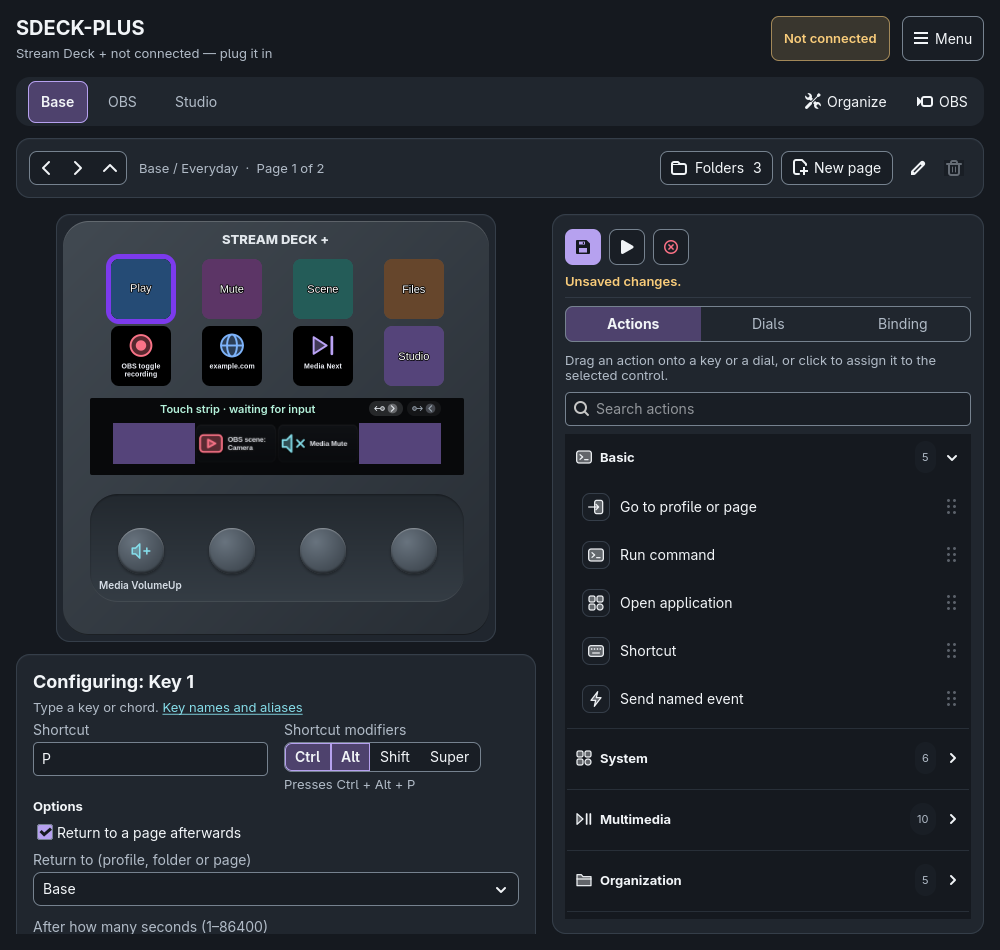
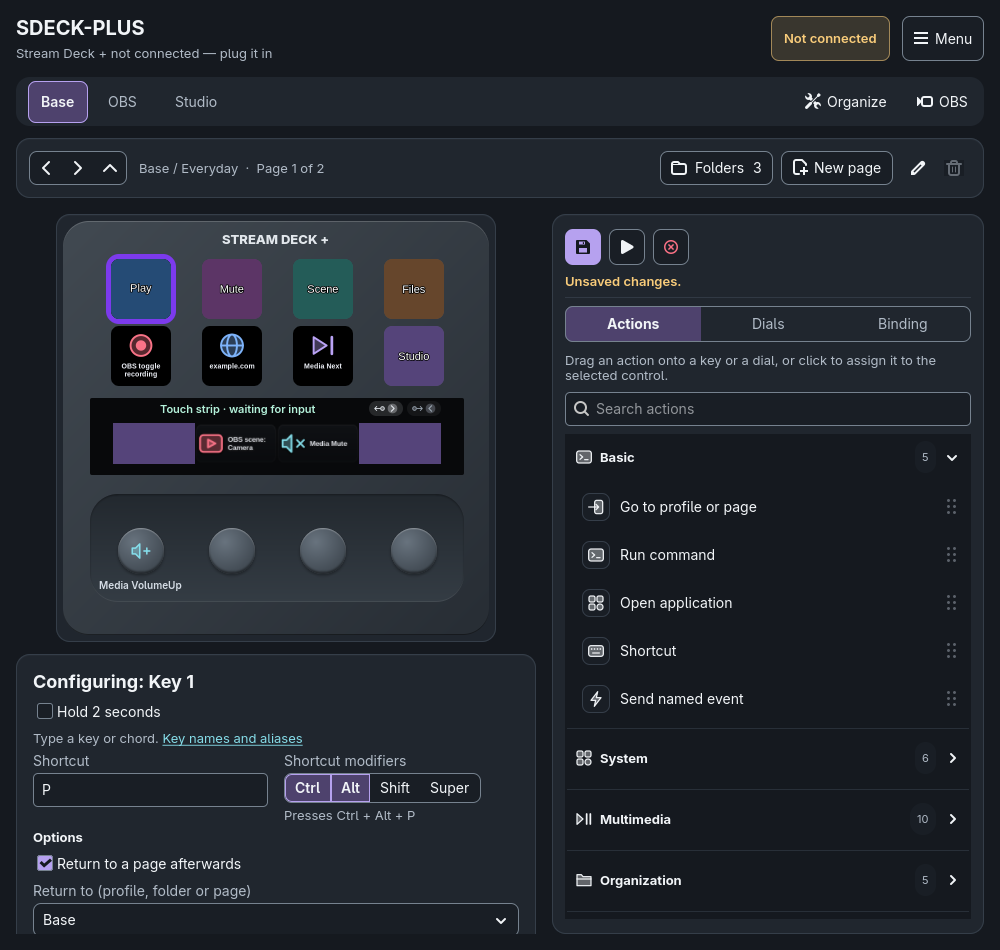
Update page

Changed region(s): [[0.031, 0.7326, 0.465, 1.0], [0.496, 0.9463, 0.527, 0.9768]]

diff --git a/docs/docs.html b/docs/docs.html
@@ -383,6 +383,7 @@ cd sdeck-plus
                  Parameterless actions such as <strong>Cancel timer</strong> save automatically; otherwise fill the settings and use <strong>Save binding</strong>.
                  Release before two seconds to run only the short action; hold for two seconds to run only the secondary action. Releasing afterwards does nothing.
                  For example, assign <strong>Start timer</strong> to the short action and <strong>Cancel timer</strong> to the hold action.</p>
+              <a href="screenshots/key-hold-action.png"><img width="1000" height="950" src="screenshots/key-hold-action.png" loading="lazy" decoding="async" style="max-width: 100%; height: auto" alt="Hold 2 seconds selected for key 8 with Cancel timer as its secondary action."></a>
               <p>Clear the toggle to edit the short action again. <strong>Remove binding</strong> in hold mode removes only the secondary action;
                  without one, keys run immediately on key-down. Hold actions keep independent page returns and do not replace primary artwork or live information.
                  Dial presses and touch-strip gestures are unchanged.</p>
@@ -404,6 +405,7 @@ cd sdeck-plus
                  Audio output, volume and theme sound availability still determine audibility. If the helper is missing or playback fails, the GTK bell is attempted
                  (it may be silent); the notification is still sent. An ignored start does not add a notification or chime. <strong>Cancel timer</strong> cancels the countdown
                  without a completion notification or chime, and <strong>Quit</strong> cancels pending timers. Saving a binding does not start it.</p>
+              <a href="screenshots/timer-countdown.png"><img width="1000" height="950" src="screenshots/timer-countdown.png" loading="lazy" decoding="async" style="max-width: 100%; height: auto" alt="A two-hour timer shown on key 8 as 02:00 with the hh:mm units above the digits."></a>
             </article>
             <article class="card">
               <h4>Return to a page afterwards</h4>

diff --git a/docs/index.html b/docs/index.html
@@ -621,6 +621,26 @@
           </div>
         </article>
 
+        <article class="feature reveal">
+          <div class="feature-text">
+            <p class="feature-num">10 · Timers</p>
+            <h3>Countdown and hold to cancel</h3>
+            <p>Start timer shows the time left on the key that started it: <code>hh:mm</code> from one hour, <code>mm:ss</code> below, with the units above the digits.
+               It ends with a system notification and a chime. While one runs, another start is ignored.
+               Give a key an optional <strong>Hold 2 seconds</strong> action, such as Cancel timer: a short tap runs the short action, two seconds runs only the hold action.</p>
+          </div>
+          <div class="stage">
+            <a class="zoom" href="screenshots/timer-countdown.png" data-caption="A two-hour timer counting down on key 8 as 02:00 with its hh:mm units above">
+              <img width="1000" height="950" src="screenshots/timer-countdown.png" loading="lazy" decoding="async" alt="A two-hour timer counting down on key 8 as 02:00 with its hh:mm units above">
+              <span class="zoom-badge" aria-hidden="true"><svg><use href="#i-zoom"/></svg></span>
+            </a>
+            <a class="zoom" href="screenshots/key-hold-action.png" data-caption="Hold 2 seconds selected for key 8, with Cancel timer as its secondary action">
+              <img width="1000" height="950" src="screenshots/key-hold-action.png" loading="lazy" decoding="async" alt="Hold 2 seconds selected for key 8, with Cancel timer as its secondary action">
+              <span class="zoom-badge" aria-hidden="true"><svg><use href="#i-zoom"/></svg></span>
+            </a>
+          </div>
+        </article>
+
         <article class="feature flip reveal">
           <div class="feature-text">
             <p class="feature-num">10 · Timers</p>

diff --git a/src/tests/documentation_screenshots.rs b/src/tests/documentation_screenshots.rs
@@ -713,6 +713,44 @@ fn capture_documentation_screenshots() {
         .unwrap();
     artwork.refresh(true);
 
+    // Timer key: a short Start timer, an optional two-second Cancel timer hold,
+    // and the countdown drawn on the initiating key (no timer is started here).
+    {
+        let mut layers = artwork.layers.borrow_mut();
+        layers
+            .bind(
+                "Base",
+                Trigger::KeyPress(8),
+                Action::Feature(FeatureAction::Timer { seconds: 7200 }),
+            )
+            .unwrap();
+        layers
+            .bind(
+                "Base",
+                Trigger::KeyHold(8),
+                Action::Feature(FeatureAction::CancelTimer),
+            )
+            .unwrap();
+    }
+    artwork.refresh(true);
+    widgets.binding_ui.mark_clean();
+    key_button(&widgets.key_labels[7]).emit_clicked();
+    widgets.root.vadjustment().set_value(0.0);
+    widgets.binding_ui.hold_toggle.set_active(true);
+    wait_for_frame(&widgets.root);
+    capture("key-hold-action");
+    widgets.binding_ui.hold_toggle.set_active(false);
+    artwork.start_key_countdown("Base".into(), 8, 7200);
+    wait_for_frame(&widgets.root);
+    capture("timer-countdown");
+    artwork.clear_countdown();
+    {
+        let mut layers = artwork.layers.borrow_mut();
+        layers.unbind("Base", &Trigger::KeyHold(8)).unwrap();
+        layers.unbind("Base", &Trigger::KeyPress(8)).unwrap();
+    }
+    artwork.refresh(true);
+
     // Then: every documented artifact was rendered, with no dispatched action.
     assert_eq!(widgets.status.text(), "Not connected");
     assert!(commands.try_iter().all(|command| !matches!(

diff --git a/CHANGELOG.md b/CHANGELOG.md
@@ -8,6 +8,9 @@ tagged yet, so everything below is unreleased (package version `0.1.0`).
 
 ### Changed
 
+- Documentation site: regenerated all native screenshots for the current interface
+  and added captures of the timer countdown on a key and the Hold 2 seconds editor.
+
 - **Optional exclusive two-second key hold.** Configure a key's short action,
   then select **Hold 2 seconds** and assign a separate catalog action, such as
   **Cancel timer**. A short release runs only the short action; reaching two
